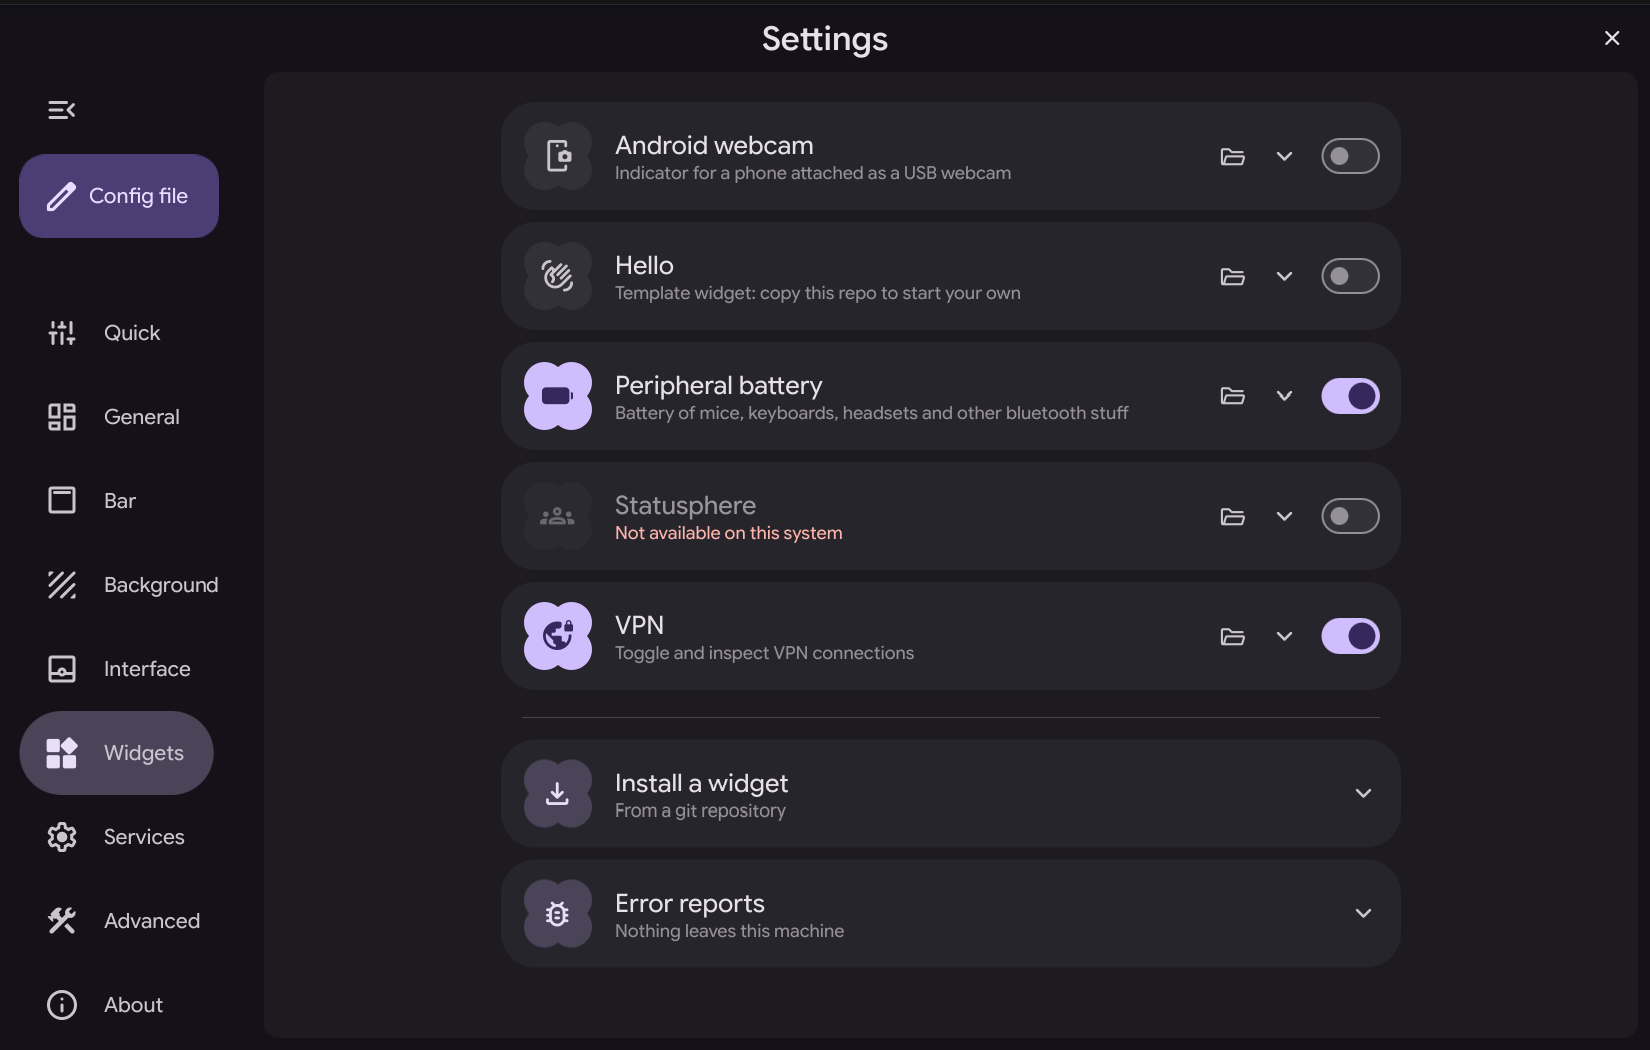
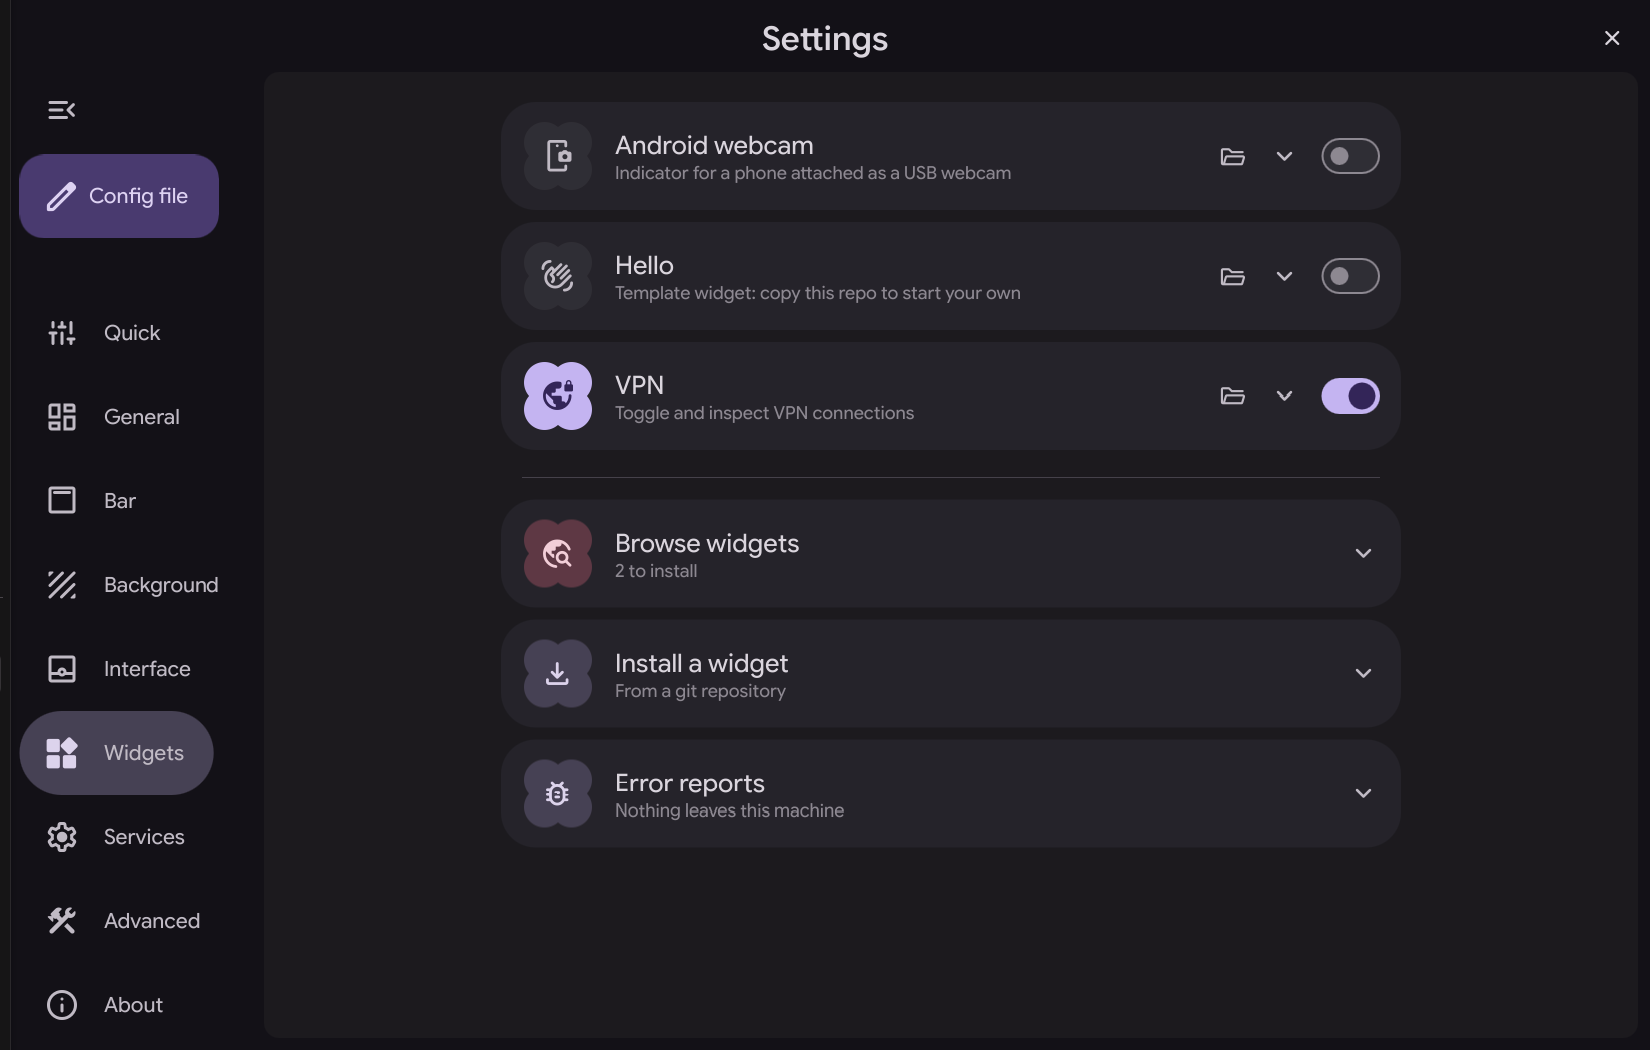
readme: a picture of the registry, both shots retaken

diff --git a/.github/README.md b/.github/README.md
@@ -55,8 +55,11 @@ reason: a missing binary, or a shell version it was not built for.
 
 Nothing ships with the shell itself. Browse widgets on that page lists what
 [the registry](https://github.com/Berupor/ii-widgets) knows and installs it in a click;
-a repository not in the registry still goes in by url. Every widget below has its own
-pictures and options:
+a repository not in the registry still goes in by url.
+
+![Browse widgets](assets/widgets-registry.png)
+
+Every widget below has its own pictures and options:
 
 - [Peripheral battery](https://github.com/Berupor/ii-widget-peripheral-battery):
   mice, keyboards, headsets and other bluetooth things, in the bar and a
@@ -148,7 +151,9 @@ the binaries it needs, and the settings page draws the options for you. The cont
 is written down in `modules/widgets/WidgetManifest.qml`;
 [ii-widget-hello](https://github.com/Berupor/ii-widget-hello) is the smallest widget
 that covers all of it, made to be copied. The same folder also works inside the shell
-tree, as `dots/.config/quickshell/ii/modules/widgets/<id>/`.
+tree, as `dots/.config/quickshell/ii/modules/widgets/<id>/`. A bar slot lists the
+orientations it draws for, so a widget can take the vertical bar, the horizontal one,
+or both.
 
 Colors and fonts come from `Appearance.*`, generated from the wallpaper, so a widget
 that hardcodes them looks wrong on everyone else's desktop and the lint says so. The
